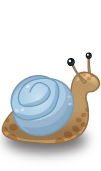
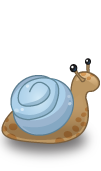
updated snail image (shorter eyes, bolder outline color). updated app.js to generate random enemy from array of enemies so snail will appear

diff --git a/js/app.js b/js/app.js
@@ -6,9 +6,15 @@ var randomY = function(){
     return posY[Math.floor(Math.random()*posY.length)];
 }
 
+var enemyImages = ['images/enemy-bug.png','images/enemy-snail.png'];
+
+var randomEnemy = function(){
+    return enemyImages[Math.floor(Math.random()*enemyImages.length)];
+}
+
 // enemy class. enemies our player must avoid
 var Enemy = function() {
-    this.sprite = 'images/enemy-bug.png';
+    this.sprite = randomEnemy();//'images/enemy-bug.png';
     this.x = -50;
     this.y = randomY();//posY[Math.floor(Math.random()*posY.length)];
     this.speed = Math.floor(Math.random() * 300) + 100;
@@ -44,7 +50,7 @@ var Player = function() {
 }
 
 // spawns enemies
-var allEnemies = [new Enemy(), new Enemy(), new Enemy()];
+var allEnemies = [new Enemy(), new Enemy(), new Enemy(), new Enemy()];
 
 // spawns player
 var player = new Player();
